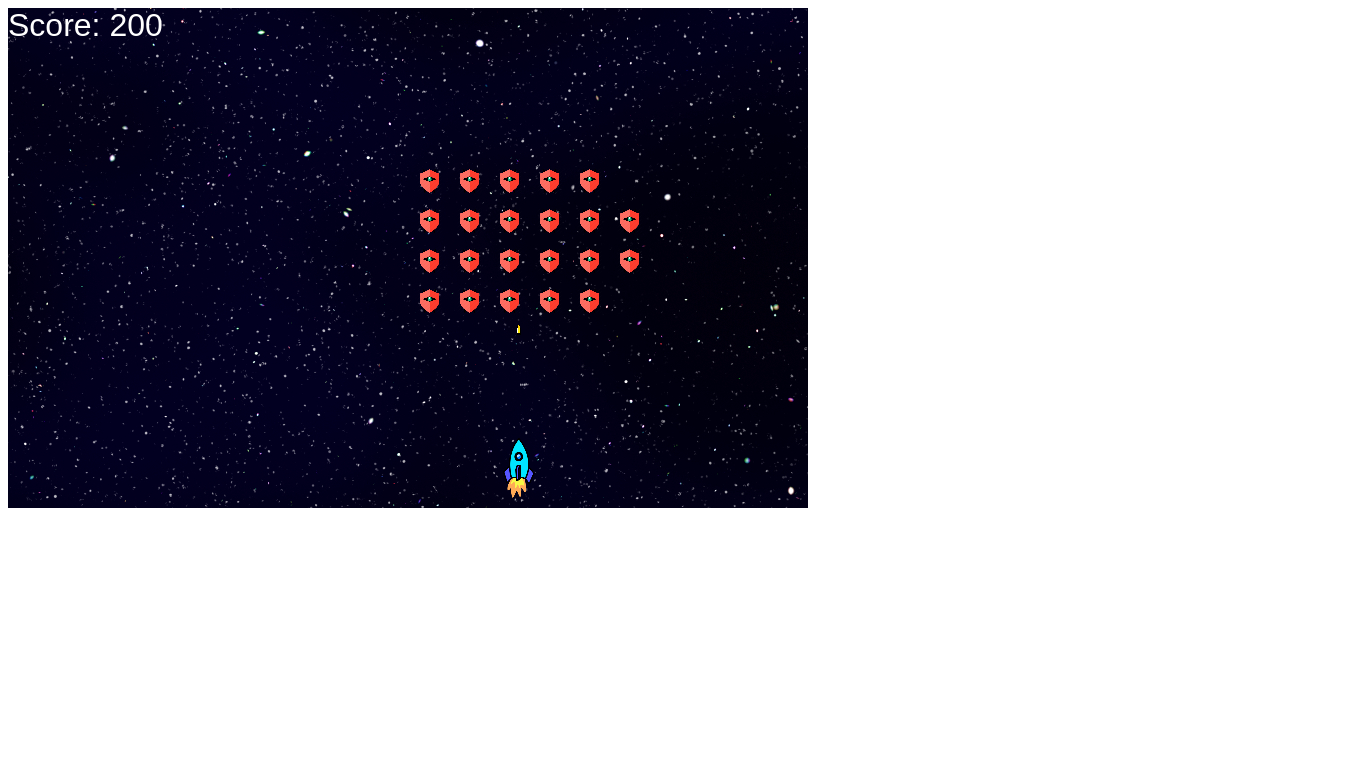
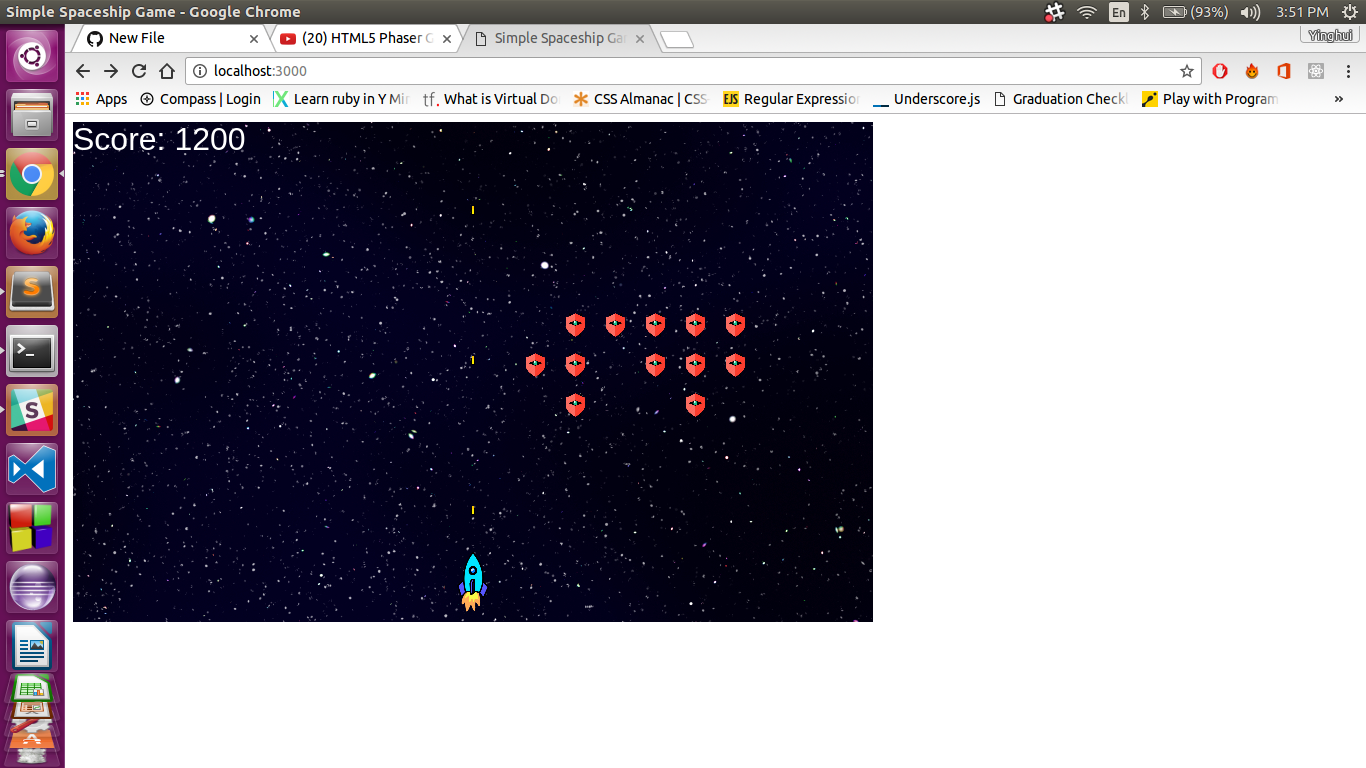
less bullet time

diff --git a/src/app.js b/src/app.js
@@ -89,7 +89,7 @@ const fireBullet = () => {
       bullet.scale.setTo(0.02);
       bullet.reset(spaceship.x, spaceship.y);
       bullet.body.velocity.y -= 500;
-      bulletTime = game.time.now + 400;
+      bulletTime = game.time.now + 300;
     }
   }
 }
